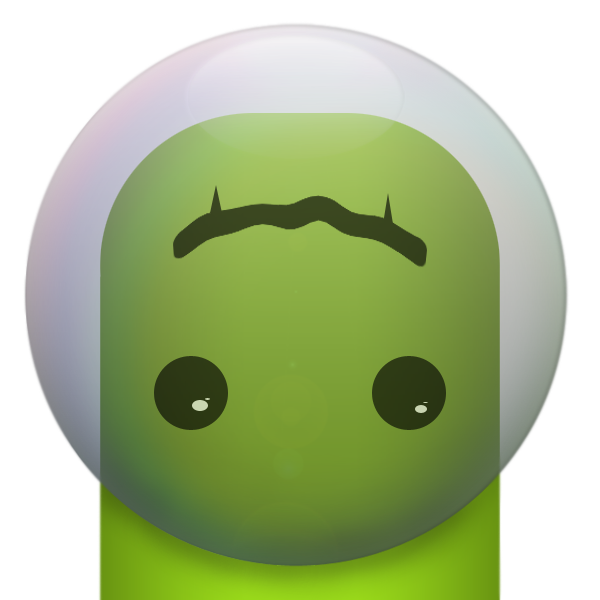
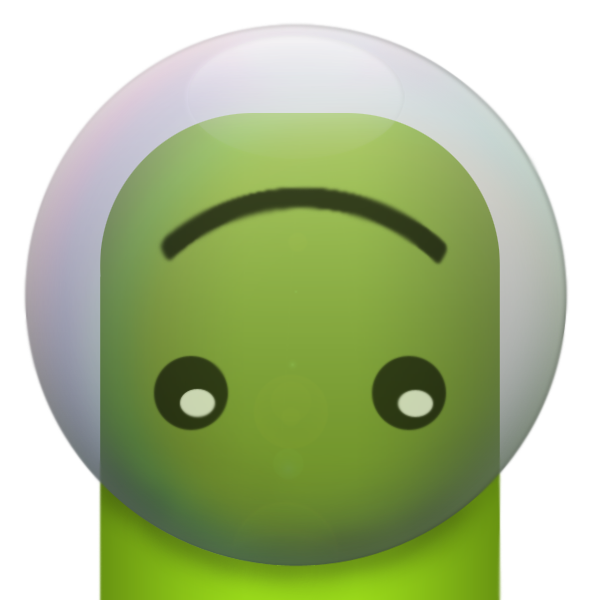
added start screen, fix logic, added new texstures

Changed region(s): [[0.27, 0.3, 0.75, 0.45], [0.3, 0.63, 0.36, 0.72], [0.66, 0.63, 0.72, 0.72]]

diff --git a/core/src/com/igopin/spacesnake/StartScreen.java b/core/src/com/igopin/spacesnake/StartScreen.java
@@ -1,5 +1,94 @@
 package com.igopin.spacesnake;
 
-public class StartScreen {
+import com.badlogic.gdx.Gdx;
+import com.badlogic.gdx.Screen;
+import com.badlogic.gdx.graphics.GL20;
+import com.badlogic.gdx.graphics.OrthographicCamera;
+import com.badlogic.gdx.graphics.Texture;
+import com.badlogic.gdx.graphics.g2d.Sprite;
+import com.badlogic.gdx.graphics.g2d.SpriteBatch;
+import com.badlogic.gdx.scenes.scene2d.Stage;
+import com.badlogic.gdx.utils.viewport.ScreenViewport;
+
+public class StartScreen implements Screen {
+
+    final SpaceSnake _game;
+
+    Stage _stage;
+    Sprite _startMessage;
+
+    SpriteBatch _batch;
+
+    // BitmapFont _font;
+
+    public StartScreen(final SpaceSnake game) {
+        _game = game;
+        _startMessage = new Sprite(new Texture("head.png"));
+        _startMessage.setSize(Gdx.graphics.getWidth(), Gdx.graphics.getHeight());
+        _batch = new SpriteBatch();
+        // _font = new BitmapFont(new FileHandle("lcd_font.ttf"));
+        // _font = new BitmapFont();
+    }
+
+    @Override
+    public void show() {
+        OrthographicCamera camera = new OrthographicCamera();
+        camera.setToOrtho(true);
+
+        _stage = new Stage();
+        _stage.setViewport(new ScreenViewport(camera));
+        _stage.addActor(_game._background);
+    }
+
+    @Override
+    public void render(float delta) {
+        Gdx.gl.glClearColor(0.5f, 0.5f, 0.5f, 0.5f);
+        Gdx.gl.glClear(GL20.GL_COLOR_BUFFER_BIT);
+
+        _stage.act(delta);
+        _stage.draw();
+        _batch.begin();
+        _startMessage.draw(_batch);
+        _batch.end();
+        /*
+         * _batch.begin(); _font.draw(_batch, "Tap anywhere to begin!",
+         * Gdx.graphics.getWidth() / 2, Gdx.graphics .getHeight() / 2);
+         * _batch.end();
+         */
+        if (Gdx.input.isTouched()) {
+            _game.setScreen(_game._fieldScreen);
+            dispose();
+        }
+
+    }
+
+    @Override
+    public void resize(int width, int height) {
+        _stage.getViewport().update(width, height);
+    }
+
+    @Override
+    public void pause() {
+        // TODO Auto-generated method stub
+
+    }
+
+    @Override
+    public void resume() {
+        // TODO Auto-generated method stub
+
+    }
+
+    @Override
+    public void hide() {
+        // TODO Auto-generated method stub
+
+    }
+
+    @Override
+    public void dispose() {
+        // TODO Auto-generated method stub
+
+    }
 
 }

diff --git a/core/src/com/igopin/spacesnake/SnakeStage.java b/core/src/com/igopin/spacesnake/SnakeStage.java
@@ -16,7 +16,11 @@ import com.badlogic.gdx.utils.viewport.ScreenViewport;
 
 public class SnakeStage extends Stage {
 
-    public SnakeStage() {
+    SpaceSnake _game;
+
+    public SnakeStage(final SpaceSnake game) {
+        _game = game;
+
         OrthographicCamera camera = new OrthographicCamera();
         camera.setToOrtho(true);
         setViewport(new ScreenViewport(camera));
@@ -60,6 +64,10 @@ public class SnakeStage extends Stage {
             @Override
             public void run() {
                 controller.move();
+                if (controller.isGameOver()) {
+                    controller.reset();
+                    _game.setScreen(_game._startScreen);
+                }
             }
         }, .3f, .3f);
 
@@ -86,5 +94,34 @@ public class SnakeStage extends Stage {
                 return true;
             }
         });
+
+        /*
+         * addListener(new GestureListener() {
+         * 
+         * @Override public boolean touchDown(float x, float y, int pointer, int
+         * button) { // TODO Auto-generated method stub return false; }
+         * 
+         * @Override public boolean tap(float x, float y, int count, int button)
+         * { // TODO Auto-generated method stub return false; }
+         * 
+         * @Override public boolean longPress(float x, float y) { // TODO
+         * Auto-generated method stub return false; }
+         * 
+         * @Override public boolean fling(float velocityX, float velocityY, int
+         * button) { // TODO Auto-generated method stub return false; }
+         * 
+         * @Override public boolean pan(float x, float y, float deltaX, float
+         * deltaY) { // TODO Auto-generated method stub return false; }
+         * 
+         * @Override public boolean panStop(float x, float y, int pointer, int
+         * button) { // TODO Auto-generated method stub return false; }
+         * 
+         * @Override public boolean zoom(float initialDistance, float distance)
+         * { // TODO Auto-generated method stub return false; }
+         * 
+         * @Override public boolean pinch(Vector2 initialPointer1, Vector2
+         * initialPointer2, Vector2 pointer1, Vector2 pointer2) { // TODO
+         * Auto-generated method stub return false; } });
+         */
     }
 }

diff --git a/core/src/spacesnake/Logic.java b/core/src/spacesnake/Logic.java
@@ -7,18 +7,21 @@ import java.util.Random;
 public class Logic {
 
     private State _state;
+    private boolean isChanged;
+    private boolean isGameOver;
 
     public Logic(final State state) {
         _state = state;
+        isChanged = true;
+        isGameOver = false;
     }
 
     private boolean moveTowards(Direction newDir, Direction oppositeDir) {
         boolean res = false;
-        if (_state.dir != oppositeDir) {
-            System.out.println("NewDir: " + newDir);
+        if (_state.dir != oppositeDir && !isChanged) {
             _state.dir = newDir;
-            System.out.println("NewState: " + _state.dir);
             res = true;
+            isChanged = true;
         }
         return res;
     }
@@ -40,8 +43,14 @@ public class Logic {
     }
 
     public boolean move() {
+        isChanged = false;
         Point head = _state.coordinates.getFirst();
         Point dir = _state.directions.get(_state.dir);
+
+        if (isPointOnSnake(new Point(head.x + dir.x, head.y + dir.y))) {
+            isGameOver = true;
+            return false;
+        }
 
         Point prev = new Point(head);
 
@@ -61,8 +70,10 @@ public class Logic {
             _state.coordinates.addFirst(new Point(head));
             Random rnd = new Random();
 
-            _state.food.setLocation(rnd.nextInt(_state._field.getWidth()), rnd
-                    .nextInt(_state._field.getHeigth()));
+            do {
+                _state.food.setLocation(rnd.nextInt(_state._field.getWidth()), rnd
+                        .nextInt(_state._field.getHeigth()));
+            } while (isPointOnSnake(_state.food));
 
             head.setLocation(prev);
             return true;
@@ -80,6 +91,22 @@ public class Logic {
             prev.setLocation(tmp);
         }
         return true;
+    }
+
+    private boolean isPointOnSnake(Point point) {
+        boolean res = false;
+
+        for (Point snakePoint : _state.coordinates) {
+            if (point.x == snakePoint.x && point.y == snakePoint.y) {
+                res = true;
+                break;
+            }
+        }
+        return res;
+    }
+
+    public boolean isGameOver() {
+        return isGameOver;
     }
 
     public State getState() {

diff --git a/core/src/spacesnake/Model.java b/core/src/spacesnake/Model.java
@@ -13,6 +13,11 @@ public class Model {
     List<ModelListener> _listeners = new ArrayList<ModelListener>();
 
     public Model() {
+        init();
+        fireChangeEvent();
+    }
+
+    private void init() {
         Field field = new Field(COLUMNS, ROWS);
         State state = new State();
         state.setField(field);
@@ -22,7 +27,6 @@ public class Model {
         Random rnd = new Random();
         state.food.setLocation(rnd.nextInt(COLUMNS), rnd.nextInt(ROWS));
         _logic = new Logic(state);
-        fireChangeEvent();
     }
 
     public void addListener(final ModelListener listener) {
@@ -60,7 +64,17 @@ public class Model {
     }
 
     public void move() {
-        _logic.move();
-        fireChangeEvent();
+        if (_logic.move()) {
+            fireChangeEvent();
+        }
     }
+
+    public boolean isGameOver() {
+        return _logic.isGameOver();
+    }
+
+    public void reset() {
+        init();
+    }
+
 }

diff --git a/core/src/com/igopin/spacesnake/FieldScreen.java b/core/src/com/igopin/spacesnake/FieldScreen.java
@@ -1,6 +1,7 @@
 package com.igopin.spacesnake;
 
 import com.badlogic.gdx.Gdx;
+import com.badlogic.gdx.Input;
 import com.badlogic.gdx.Screen;
 import com.badlogic.gdx.graphics.GL20;
 
@@ -15,7 +16,7 @@ public class FieldScreen implements Screen {
 
     @Override
     public void show() {
-        _stage = new SnakeStage();
+        _stage = new SnakeStage(_game);
         _stage.init();
 
         _stage.addActor(_game._background);
@@ -25,6 +26,10 @@ public class FieldScreen implements Screen {
     public void render(float delta) {
         Gdx.gl.glClearColor(0.5f, 0.5f, 0.5f, 0.5f);
         Gdx.gl.glClear(GL20.GL_COLOR_BUFFER_BIT);
+
+        if (Gdx.input.isKeyPressed(Input.Keys.ESCAPE)) {
+            _game.setScreen(_game._startScreen);
+        }
 
         _stage.act(delta);
         _stage.draw();

diff --git a/core/src/com/igopin/spacesnake/SpaceSnake.java b/core/src/com/igopin/spacesnake/SpaceSnake.java
@@ -4,8 +4,8 @@ import com.badlogic.gdx.Game;
 
 public class SpaceSnake extends Game {
 
-    FieldScreen _fieldscreen;
-    StartScreen _startscreen;
+    FieldScreen _fieldScreen;
+    StartScreen _startScreen;
     public Background _background;
 
     @Override
@@ -13,8 +13,9 @@ public class SpaceSnake extends Game {
         _background = new Background();
         _background.setPosition(0, 0);
 
-        _fieldscreen = new FieldScreen(this);
-        setScreen(_fieldscreen);
+        _fieldScreen = new FieldScreen(this);
+        _startScreen = new StartScreen(this);
+        setScreen(_startScreen);
 
     }
 

diff --git a/core/src/spacesnake/Controller.java b/core/src/spacesnake/Controller.java
@@ -33,6 +33,14 @@ public class Controller implements ModelListener {
         _model.move();
     }
 
+    public boolean isGameOver() {
+        return _model.isGameOver();
+    }
+
+    public void reset() {
+        _model.reset();
+    }
+
     @Override
     public void onChange(State state) {
         _view.draw(state);
